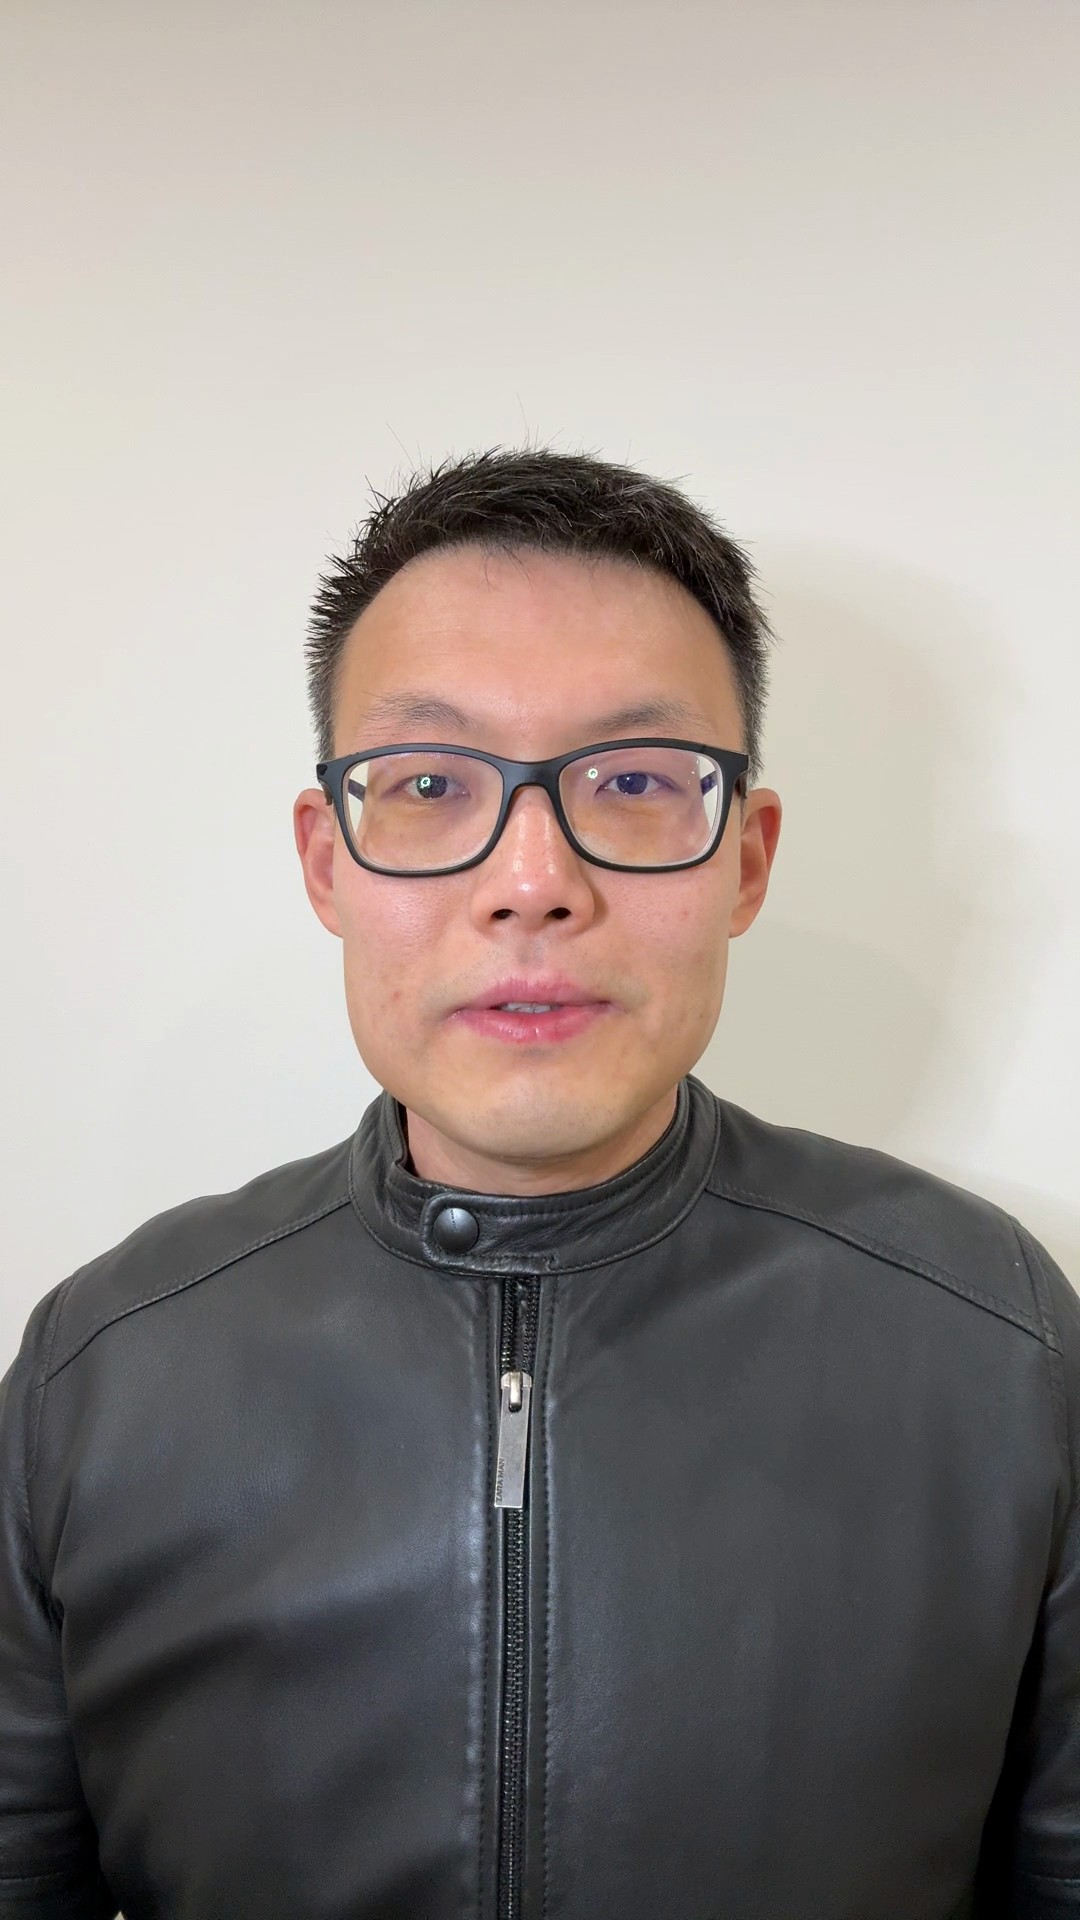
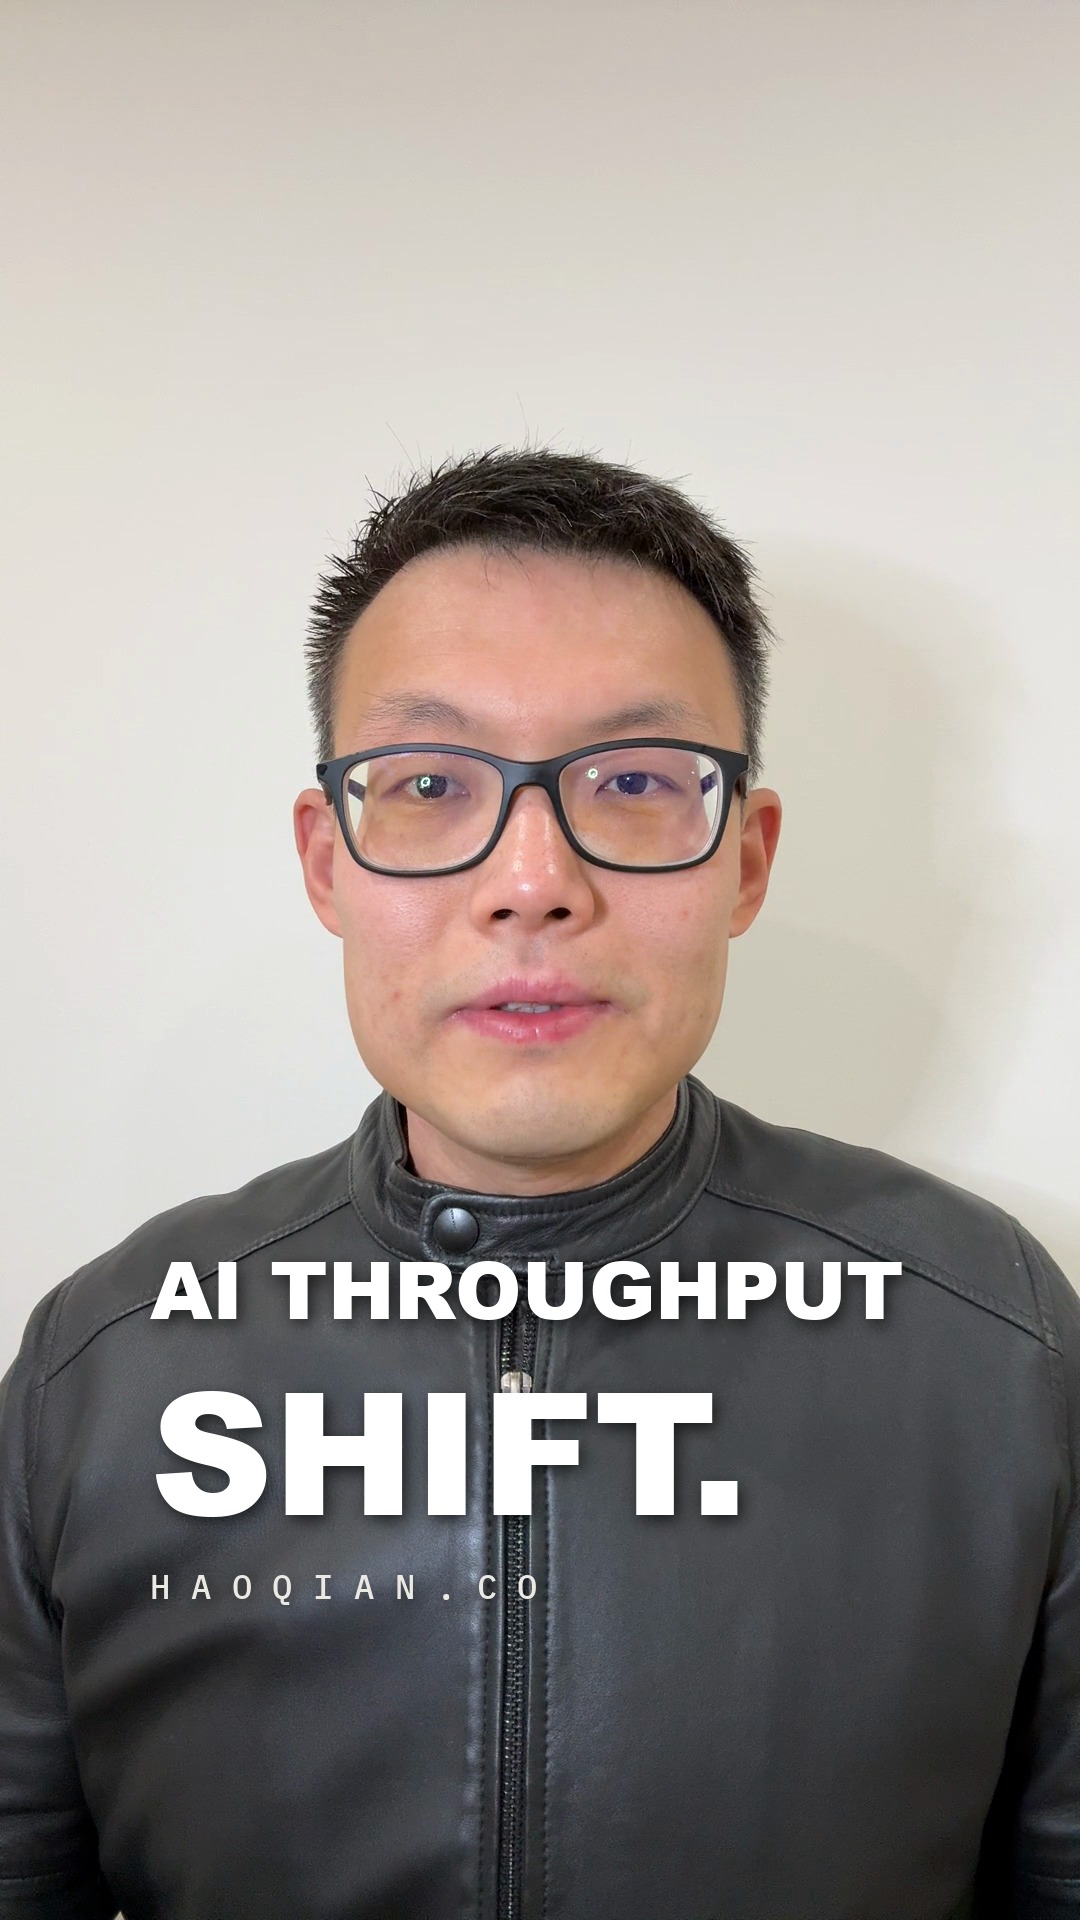
Episode posters are thumbnails now, not first frames: Eps 1–3 switched, thumbnail.py makes the card

Changed region(s): [[0.1528, 0.7188, 0.7028, 0.8438], [0.1222, 0.6562, 0.8556, 0.6875]]

diff --git a/scripts/video-pipeline/thumbnail.py b/scripts/video-pipeline/thumbnail.py
@@ -1,0 +1,61 @@
+"""
+thumbnail.py — the 1080×1920 episode thumbnail (website poster + LinkedIn).
+
+A clean face frame from the episode, the title in the caption style
+(Arial Black, lower third, small first line / big last line), and a
+HAOQIAN.CO mono line. Matches the Ep2–Ep5 thumbnails made by hand.
+
+Usage: python3 thumbnail.py <frame.jpg> "<LINE ONE>" "<LINE TWO.>" <out.jpg>
+"""
+import sys
+from PIL import Image, ImageDraw, ImageFont, ImageFilter
+
+AB = "/System/Library/Fonts/Supplemental/Arial Black.ttf"
+MONO = "/Users/haoqian/Documents/hao-qian-advisory/src/assets/og/plex-mono-500.ttf"
+
+W, H = 1080, 1920
+X = 160
+
+
+def cover(img):
+    r = max(W / img.width, H / img.height)
+    img = img.resize((round(img.width * r), round(img.height * r)), Image.LANCZOS)
+    l, t = (img.width - W) // 2, (img.height - H) // 2
+    return img.crop((l, t, l + W, t + H))
+
+
+def shadow_text(base, xy, text, font, spacing=0):
+    layer = Image.new("RGBA", base.size, (0, 0, 0, 0))
+    d = ImageDraw.Draw(layer)
+    x, y = xy
+    if spacing:
+        for ch in text:
+            d.text((x, y), ch, font=font, fill=(0, 0, 0, 150))
+            x += d.textlength(ch, font=font) + spacing
+    else:
+        d.text((x + 4, y + 6), text, font=font, fill=(0, 0, 0, 150))
+    layer = layer.filter(ImageFilter.GaussianBlur(8))
+    base.alpha_composite(layer)
+    d = ImageDraw.Draw(base)
+    x, y = xy
+    if spacing:
+        for ch in text:
+            d.text((x, y), ch, font=font, fill="white")
+            x += d.textlength(ch, font=font) + spacing
+    else:
+        d.text((x, y), text, font=font, fill="white")
+
+
+frame, line1, line2, out = sys.argv[1:5]
+img = cover(Image.open(frame).convert("RGB")).convert("RGBA")
+
+f1 = ImageFont.truetype(AB, 96)
+f2 = ImageFont.truetype(AB, 190)
+fm = ImageFont.truetype(MONO, 36)
+
+shadow_text(img, (X, 1250), line1.upper(), f1)
+shadow_text(img, (X - 6, 1360), line2.upper(), f2)
+shadow_text(img, (X, 1575), "HAOQIAN.CO", fm, spacing=18)
+
+img.convert("RGB").save(out, quality=92)
+print("wrote", out)

diff --git a/CLAUDE.md b/CLAUDE.md
@@ -22,7 +22,7 @@ Source of truth is Hao's own Claude Design project ("Design System Foundations R
 - `src/content/*.ts` — all content as typed data (site nav, `writing.ts` Working Theory links, `garden.ts` ideas, `projects.ts` roster). Adding content = editing these files; no CMS, ever.
 - `src/components/site/Chrome.tsx` — SiteShell/Header/Footer + primitives (Container, Kicker, PageTitle, Lede, Note).
 - `src/app/{books,writing,videos,projects,talks,garden,about,archive}` — the library rooms.
-- `/videos` — Working Theory on camera (Phase 1 video system, 2026-08): episodes are entries in `src/content/videos.ts` (helpers in `src/lib/videos.ts`); drafts build at their URL (noindex) but stay out of every listing; publishing = flip `status` + `publishedAt`. **Video bytes never enter git** (rule since 2026-08-20): every site video — episodes and others (e.g. the Fish Fun flip-through via `Book.video`) — lives as an asset on the repo's `media` GitHub release ("the media shelf"), uploaded by `scripts/publish-video.sh <raw> <slug> [poster-sec]` (compress 1080p H.264 + poster + `gh release upload`; no API keys); content files reference the full release download URL; only posters/captions/figures stay in `public/videos/<slug>/`. Workflow: `docs/VIDEO_PUBLISHING_WORKFLOW.md` (website first, then manual LinkedIn package from the same entry); format spec reverse-engineered from the Galloway benchmark in `docs/VIDEO_FORMAT_REFERENCE.md`. Ep. 1 "Speaker Theory" published 2026-08-16 (video+poster+VTT in `public/videos/speaker-theory/`, connected to essay wt-2 and the series via connections.ts). The scripted edit pipeline (whisper word-align, karaoke captions, insert cards, b-roll; ffmpeg+PIL) is kept in `scripts/video-pipeline/` — duplicate per episode. Series are configurable for a future Friends Intelligence line — not built. Constellation nodes for episodes: not yet (add only real published work).
+- `/videos` — Working Theory on camera (Phase 1 video system, 2026-08): episodes are entries in `src/content/videos.ts` (helpers in `src/lib/videos.ts`); drafts build at their URL (noindex) but stay out of every listing; publishing = flip `status` + `publishedAt`. **Video bytes never enter git** (rule since 2026-08-20): every site video — episodes and others (e.g. the Fish Fun flip-through via `Book.video`) — lives as an asset on the repo's `media` GitHub release ("the media shelf"), uploaded by `scripts/publish-video.sh <raw> <slug> [poster-sec]` (compress 1080p H.264 + poster + `gh release upload`; no API keys); content files reference the full release download URL; only posters/captions/figures stay in `public/videos/<slug>/`. **Posters are designed thumbnails, never raw frames** (since 2026-08-22): `scripts/video-pipeline/thumbnail.py` makes the 1080×1920 face-frame + Arial Black title + HAOQIAN.CO card that serves both the site poster and the LinkedIn thumbnail. Workflow: `docs/VIDEO_PUBLISHING_WORKFLOW.md` (website first, then manual LinkedIn package from the same entry); format spec reverse-engineered from the Galloway benchmark in `docs/VIDEO_FORMAT_REFERENCE.md`. Ep. 1 "Speaker Theory" published 2026-08-16 (video+poster+VTT in `public/videos/speaker-theory/`, connected to essay wt-2 and the series via connections.ts). The scripted edit pipeline (whisper word-align, karaoke captions, insert cards, b-roll; ffmpeg+PIL) is kept in `scripts/video-pipeline/` — duplicate per episode. Series are configurable for a future Friends Intelligence line — not built. Constellation nodes for episodes: not yet (add only real published work).
 - `/advisory` — the 2026 advisory practice, archived (noindex, enquiry form still wired to `/api/enquiry` via Resend). Linked only from `/archive`.
 - `/balloons` — the balloon room (own nav tab, 2026-08): Little Wow Balloons is Hao's real craft, not just a software project, so its work gets a room, not a project footnote. Page renders `src/content/balloon-archive.json` (16 IG photos in `public/projects/balloons/`), ingested by `scripts/ingest-instagram-balloons.mjs` from Hao's official IG data export (@qianhaopower — account now pivoting to books/leadership; anonymous scraping is login-walled, don't retry it). Garden stays — Hao considered swapping it out, decided to keep both. Street-performance photos from Hao will join the room later.
 - Legacy kept intact: `/sites` + business sites under `public/`, `/worldcupfighter`, `/friendsintelligence` static landing (redirect in `next.config.ts`).

diff --git a/docs/VIDEO_PUBLISHING_WORKFLOW.md b/docs/VIDEO_PUBLISHING_WORKFLOW.md
@@ -42,8 +42,12 @@ the mp4 onto the `media` release on github.com, or
 
 What still lives in the repo, in `public/videos/<slug>/`:
 
-- `poster.jpg` — the thumbnail (also used for social cards); the script's
-  `<slug>-poster.jpg`, copied here.
+- `poster.jpg` — the designed 1080×1920 thumbnail (also used for social
+  cards): a clean face frame + title in the caption style + HAOQIAN.CO line,
+  made by `scripts/video-pipeline/thumbnail.py`. It is the SAME file that
+  goes to LinkedIn as «Title - EpN - thumbnail.jpg». Do not use the
+  raw frame `publish-video.sh` cuts — it's a fallback only (rule since
+  2026-08-22, when Eps 1–3 were switched from frames to thumbnails).
 - `captions.vtt` — WebVTT captions (only used with file URLs).
 - optional `figure-1.jpg` … — supporting diagrams/evidence, listed in
   `supportingVisuals` with real `alt` text.
@@ -81,7 +85,11 @@ Check the episode page on a phone-width viewport as well as desktop.
 2. `«Title» - EpN - thumbnail.jpg` — 1080×1920 designed thumbnail:
    a clean face frame from the episode with the episode title in the
    caption style (Arial Black, lower third) and a small HAOQIAN.CO mono
-   line. Upload it via LinkedIn's "Edit thumbnail" on the video.
+   line. Make it with
+   `python3 scripts/video-pipeline/thumbnail.py <frame.jpg> "LINE ONE" "LINE TWO." out.jpg`
+   (cut the frame with `ffmpeg -ss <sec> -i <raw> -frames:v 1`, mouth
+   closed, no burnt captions). Upload it via LinkedIn's "Edit thumbnail"
+   on the video; the same file is `public/videos/<slug>/poster.jpg`.
 3. `«Title» - EpN - caption.txt` — the LinkedIn caption (written at
    script stage, stored on the `linkedinCaption` field). Hook line
    first, canonical URL, two tags max.
